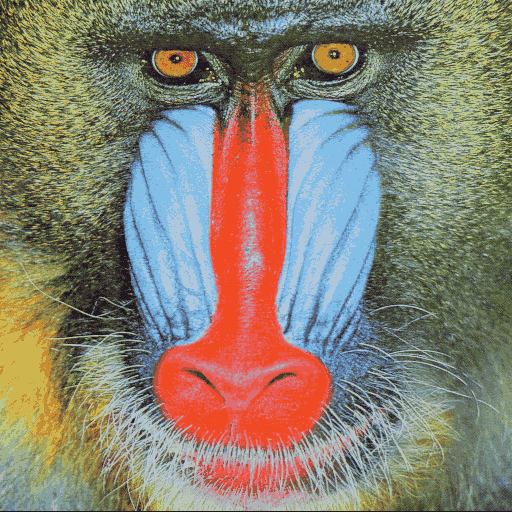
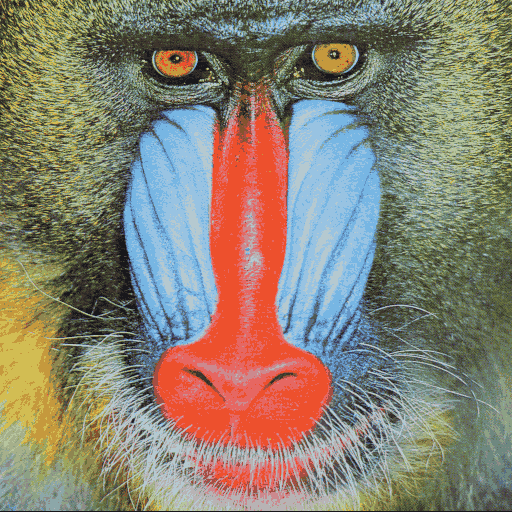
Finished project 5

diff --git a/projeto 5/main.py b/projeto 5/main.py
@@ -1,5 +1,4 @@
 import sys
-
 from color_quantization import ColorQuantizationImage
 
 
@@ -8,13 +7,47 @@ def generate_example():
     Gera todas as imagens de exemplo do diretório pictures
 
     """
+    example_image_list = [
+        ('baboon', 'png'),
+        ('monalisa', 'png'),
+        ('peppers', 'png'),
+        ('watch', 'png'),
+    ]
+
+    # Gera para cada quantidade de cor
+    for color_count in [16, 32, 64, 128]:
+        for image in example_image_list:
+            (file, file_format) = image
+            params = {"file": file, "format": file_format, "color_count": color_count}
+            generate_image('./pictures/{file}.{format}'.format(**params),
+                           './results/{file}_{color_count}.{format}'.format(**params),
+                           color_count)
+
+
+def generate_image(input_path, output_path, colors_count):
+    """
+    Gera uma imagem mudando suas cores
+    :param input_path: arquivo de entrada
+    :param output_path: arquivo de saída
+    :param colors_count: quantidade de cores
+    """
+    color_quantization = ColorQuantizationImage(input_path)
+    color_quantization.create_quantized(output_path, colors_count)
 
 
 def main():
     """
+    Programa que gera uma versão da imagem com até uma certa quantidade de cores.
+    Pode ser usado de 2 formas:
+        - python main.py example => gera todas as imagens no diretório "pictures"
+        - python mian.py arq_entrada arq_saida cores => gera a imagem na saída dada com o limite de cores fornecido
     """
-    color_quantization = ColorQuantizationImage('./pictures/baboon.png')
-    color_quantization.color_quantization(32)
+    if sys.argv[1] == 'example':
+        generate_example()
+    else:
+        (_, input_path, output_path, colors_count) = sys.argv
+        colors_count = int(colors_count)
+        generate_image(input_path, output_path, colors_count)
 
 
 if __name__ == '__main__':

diff --git a/projeto 5/color_quantization.py b/projeto 5/color_quantization.py
@@ -1,5 +1,5 @@
 import cv2
-from sklearn.cluster import KMeans
+from sklearn.cluster import MiniBatchKMeans
 
 
 class ColorQuantizationImage:
@@ -7,18 +7,27 @@ class ColorQuantizationImage:
     def __init__(self, image_path):
         self.image = cv2.imread(image_path)
 
-    def color_quantization(self, colors_count):
-        (height, width) = self.image.shape[:2]
-        image = cv2.cvtColor(self.image, cv2.COLOR_BGR2LAB)
+    def create_quantized(self, output_path, colors_count):
+        """
+        Cria uma versão nova da imagem com um limite de cores
+        :param output_path: caminho do arquivo a ser criado
+        :param colors_count: quantidade de cores
+        """
 
         # Prepara para uso no K-means
+        (height, width) = self.image.shape[:2]
+        image = cv2.cvtColor(self.image, cv2.COLOR_BGR2LAB)
         image = image.reshape((image.shape[0] * image.shape[1], 3))
 
-        clusters = KMeans(n_clusters=colors_count)
+        # Realiza quantização
+        clusters = MiniBatchKMeans(n_clusters=colors_count)
         labels = clusters.fit_predict(image)
         quantization = clusters.cluster_centers_.astype("uint8")[labels]
 
+        # Volta para o espaço RGB
         quantized_image = quantization.reshape((height, width, 3))
         quantized_image = cv2.cvtColor(quantized_image, cv2.COLOR_LAB2BGR)
 
-        cv2.imwrite('./results/result.png', quantized_image)
+        # Escreve o arquivo
+        cv2.imwrite(output_path, quantized_image)
+        print("File \"%s\" created with %d colors" % (output_path, colors_count))
